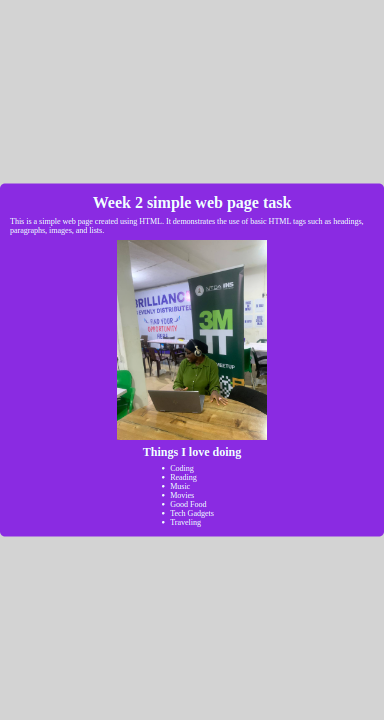
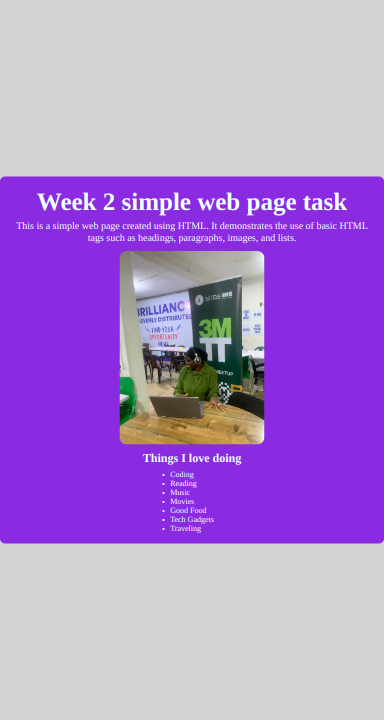
updated the style file and images

Changed region(s): [[0.0, 0.2444, 1.0, 0.7639]]

diff --git a/Online-Tasks/Week 2/style.css b/Online-Tasks/Week 2/style.css
@@ -24,8 +24,20 @@ main{
     border-radius: 10px;
 }
 
+h1{
+    font-size: 50px;
+}
+
+p{
+    font-size: 20px;
+    text-align: center;
+}
+
 img{
     max-width: 100%;
-    width: 300px
+    width: 300px;
+    border-radius: 20px;
+    padding: 5px;
 }
+
 
